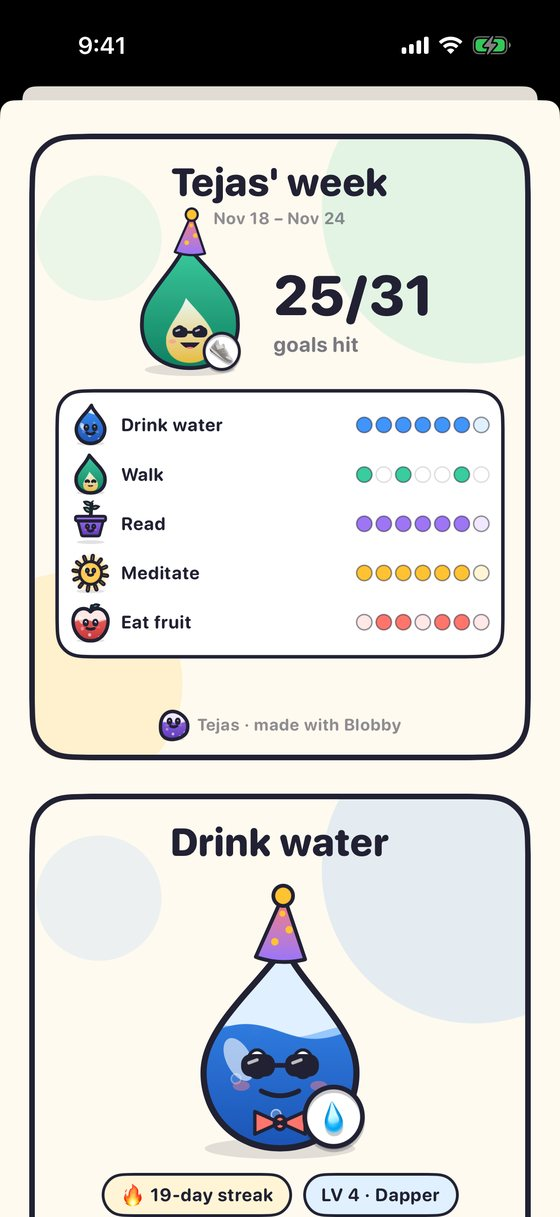
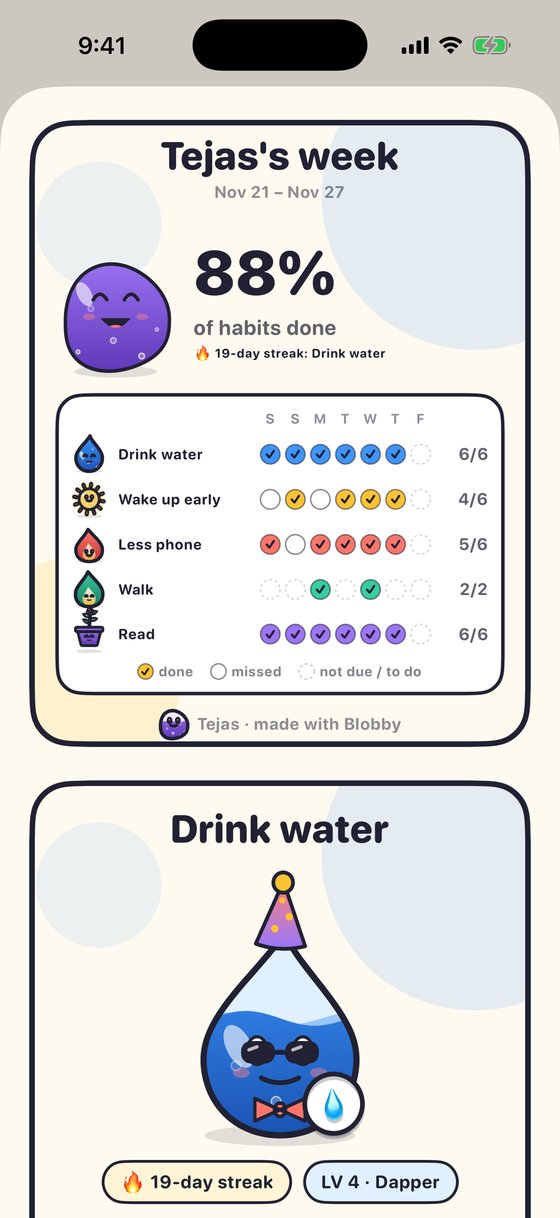
v0.10.8: keep day letters visible in report rows; refresh website images
Claude-Session: https://claude.ai/code/session_01DzhaZVwyrobK7xc2kPzxpa

diff --git a/Blobby/Views/RecapOnboardingToast.swift b/Blobby/Views/RecapOnboardingToast.swift
@@ -374,18 +374,22 @@ struct WeeklyRecapView: View {
                 Text(h.name)
                     .font(.cartoon(17))
                     .foregroundStyle(Ink.text)
+                    .lineLimit(1)
+                    .minimumScaleFactor(0.75)
                 if mode == .week {
                     HStack(spacing: 5) {
                         ForEach(0..<7, id: \.self) { i in
                             dayDot(h, offset: 6 - i)
                         }
                     }
+                    .fixedSize()   // never squeeze the day letters away
                 }
                 Text(scheduled == 0 ? "Nothing due" : "Total: \(h.formatTotal(amount))")
                     .font(.cartoon(12, .bold))
                     .foregroundStyle(Ink.text.opacity(0.55))
             }
-            Spacer()
+            .layoutPriority(1)   // the name + dots get space first; the count is short
+            Spacer(minLength: 4)
             VStack(spacing: 0) {
                 Text(scheduled == 0 ? "–" : "\(done)/\(scheduled)")
                     .font(.cartoon(22))

diff --git a/DEV-NOTES.md b/DEV-NOTES.md
@@ -50,3 +50,4 @@ Animated cartoon habit tracker (SwiftUI, iPhone). Built from Windows with the pl
 - v0.10.6: share card leads with wins (% only when ≥60%), best streak line, includes today (done only), "Started <day>" label, footer spacing.
 - v0.10.6 (cont.): share-card border drawn as overlay (never clipped); CI moved to macos-26 (Xcode 26, needed for App Store uploads); release.yml added (manual "Release to TestFlight", needs TEAM_ID / ASC_KEY_ID / ASC_ISSUER_ID / ASC_KEY_P8 secrets). Widget stays parked until the first TestFlight build works.
 - v0.10.7: Reports/share card show the user's own buddy next to the overall number (not the top habit, which read as "Read = 25%"); "of all habits done"; week = last 7 days incl. today; today only counts once done (Habit.stats). Website: new report/share copy.
+- v0.10.8: report rows — day letters no longer squeezed out (fixedSize + layoutPriority), names stay on one line. Website report/share images refreshed.
